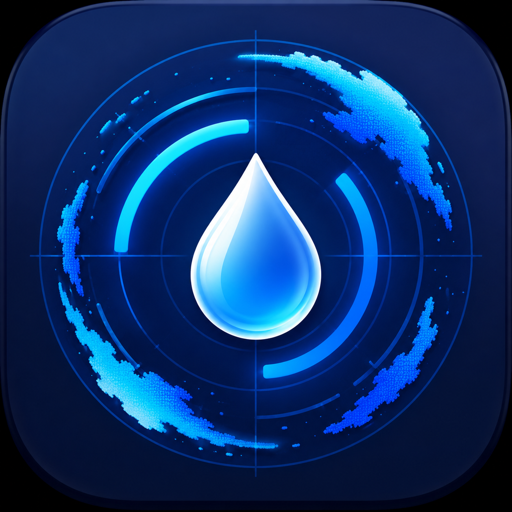
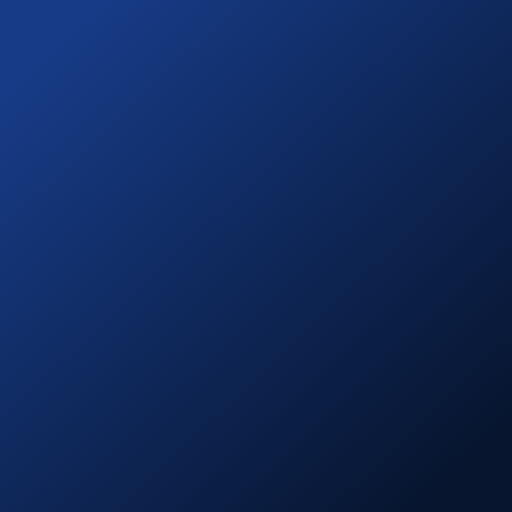
fix: harden branded asset layers

diff --git a/scripts/check-brand-assets.ts b/scripts/check-brand-assets.ts
@@ -1,0 +1,101 @@
+type AssetSpec = {
+  path: string;
+  width: number;
+  height: number;
+  colorType?: number;
+};
+
+const root = process.cwd();
+const assets: AssetSpec[] = [
+  { path: 'assets/images/icon.png', width: 1024, height: 1024 },
+  { path: 'assets/images/ui-mark.png', width: 192, height: 192 },
+  { path: 'assets/images/android-icon-background.png', width: 512, height: 512, colorType: 2 },
+  { path: 'assets/images/android-icon-foreground.png', width: 512, height: 512 },
+  { path: 'assets/images/android-icon-monochrome.png', width: 512, height: 512 },
+  { path: 'assets/images/favicon.png', width: 64, height: 64 },
+  { path: 'assets/images/splash-icon.png', width: 228, height: 228 },
+  { path: 'store-assets/google-play/icon.png', width: 512, height: 512 },
+  { path: 'store-assets/google-play/feature-graphic.png', width: 1024, height: 500, colorType: 2 },
+];
+
+function absolute(path: string) {
+  return `${root}/${path}`;
+}
+
+async function readPng(path: string) {
+  const bytes = new Uint8Array(await Bun.file(absolute(path)).arrayBuffer());
+  if (bytes.length < 26 || String.fromCharCode(...bytes.slice(1, 4)) !== 'PNG') {
+    throw new Error(`${path}: not a PNG`);
+  }
+  const view = new DataView(bytes.buffer, bytes.byteOffset, bytes.byteLength);
+  return {
+    bytes,
+    width: view.getUint32(16),
+    height: view.getUint32(20),
+    colorType: bytes[25],
+  };
+}
+
+function sameBytes(left: Uint8Array, right: Uint8Array) {
+  return left.length === right.length && left.every((byte, index) => byte === right[index]);
+}
+
+const failures: string[] = [];
+const pngs = new Map<string, Awaited<ReturnType<typeof readPng>>>();
+
+for (const spec of assets) {
+  try {
+    const png = await readPng(spec.path);
+    pngs.set(spec.path, png);
+    if (png.width !== spec.width || png.height !== spec.height) {
+      failures.push(`${spec.path}: expected ${spec.width}x${spec.height}, found ${png.width}x${png.height}`);
+    }
+    if (spec.colorType !== undefined && png.colorType !== spec.colorType) {
+      failures.push(`${spec.path}: expected PNG color type ${spec.colorType}, found ${png.colorType}`);
+    }
+  } catch (error) {
+    failures.push(error instanceof Error ? error.message : `${spec.path}: unreadable asset`);
+  }
+}
+
+const adaptiveBackground = pngs.get('assets/images/android-icon-background.png');
+const playIcon = pngs.get('store-assets/google-play/icon.png');
+if (adaptiveBackground && playIcon && sameBytes(adaptiveBackground.bytes, playIcon.bytes)) {
+  failures.push('Android adaptive background must not be the complete Google Play icon');
+}
+
+const appConfig = await Bun.file(absolute('app.config.ts')).text();
+const onboarding = await Bun.file(absolute('src/app/onboarding.tsx')).text();
+const webTabs = await Bun.file(absolute('src/components/app-tabs.web.tsx')).text();
+
+const iconPath = "icon: './assets/images/icon.png'";
+if (appConfig.split(iconPath).length - 1 !== 2) {
+  failures.push('app.config.ts: expected top-level and iOS icons to use icon.png');
+}
+
+for (const expected of [
+  "foregroundImage: './assets/images/android-icon-foreground.png'",
+  "backgroundImage: './assets/images/android-icon-background.png'",
+  "monochromeImage: './assets/images/android-icon-monochrome.png'",
+  "favicon: './assets/images/favicon.png'",
+  "image: './assets/images/splash-icon.png'",
+]) {
+  if (!appConfig.includes(expected)) failures.push(`app.config.ts: missing ${expected}`);
+}
+
+if (!onboarding.includes("require('../../assets/images/ui-mark.png')")) {
+  failures.push('onboarding.tsx: dedicated ui-mark.png is not used');
+}
+if (!webTabs.includes("require('../../assets/images/ui-mark.png')")) {
+  failures.push('app-tabs.web.tsx: dedicated ui-mark.png is not used');
+}
+if (onboarding.includes('☂') || webTabs.includes('☂')) {
+  failures.push('UI branding still contains the retired umbrella glyph');
+}
+
+if (failures.length) {
+  console.error(failures.join('\n'));
+  process.exit(1);
+}
+
+console.log(`Brand asset checks passed (${assets.length} PNGs, adaptive-layer contract, and UI references).`);

diff --git a/src/app/onboarding.tsx b/src/app/onboarding.tsx
@@ -36,7 +36,7 @@ export default function OnboardingScreen() {
     <View style={{ flex: 1, backgroundColor: theme.background, paddingTop: insets.top, paddingBottom: insets.bottom, paddingHorizontal: spacing.lg }}>
       <View style={{ flex: 1, maxWidth: 640, width: '100%', alignSelf: 'center', justifyContent: 'center', gap: spacing.lg }}>
         <View accessible accessibilityLabel="Weathercast rain mark" style={{ width: 72, height: 72, borderRadius: 20, backgroundColor: theme.accentSoft, alignItems: 'center', justifyContent: 'center', overflow: 'hidden' }}>
-          <Image accessible={false} source={require('../../assets/images/icon.png')} style={{ width: 72, height: 72 }} />
+          <Image accessible={false} source={require('../../assets/images/ui-mark.png')} style={{ width: 72, height: 72 }} />
         </View>
         <View style={{ gap: spacing.sm }}>
           <Text selectable accessibilityRole="header" style={{ color: theme.text, fontSize: 40, lineHeight: 44, fontWeight: '800', letterSpacing: -0.8 }}>

diff --git a/src/components/app-tabs.web.tsx b/src/components/app-tabs.web.tsx
@@ -36,7 +36,7 @@ export default function WebAppTabs() {
             title: tab.title,
             tabBarAccessibilityLabel: `${tab.title} tab`,
             tabBarIcon: ({ color }) => tab.icon === 'brand'
-              ? <Image accessible={false} source={require('../../assets/images/icon.png')} style={{ width: 22, height: 22, borderRadius: 6, opacity: color === theme.accent ? 1 : 0.62 }} />
+              ? <Image accessible={false} source={require('../../assets/images/ui-mark.png')} style={{ width: 22, height: 22, borderRadius: 6, opacity: color === theme.accent ? 1 : 0.62 }} />
               : <Text style={{ color, fontSize: 20, lineHeight: 22 }}>{tab.icon}</Text>,
           }}
         />

diff --git a/docs/release-checklist.md b/docs/release-checklist.md
@@ -5,6 +5,7 @@
 - [ ] `bun run check`
 - [ ] `bunx expo-doctor`
 - [ ] `bun run export`
+- [ ] `bun run assets:check`
 - [ ] Signed iOS and Android production builds install and launch
 - [ ] Core flows pass on a current iPhone and Android device
 - [ ] Crash-free, API latency, provider freshness, and alert-delivery monitoring configured